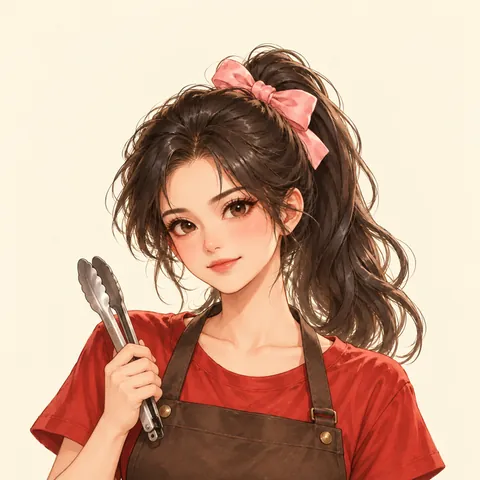
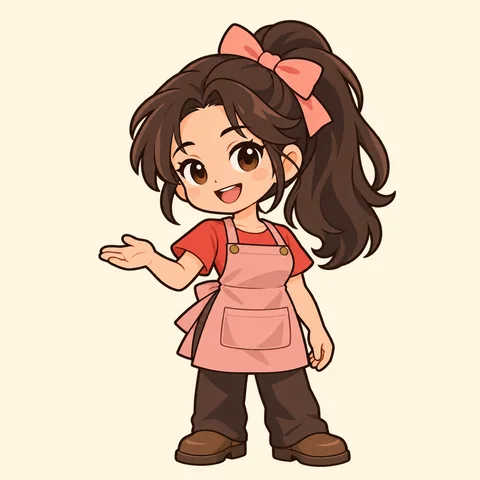
预览 12b2：家宅升级底图第二批 + 77 新形象 + 测试房间——阿宅 / 火箭老板 Lv2（公寓 8×5）、Lv3（豪宅 10×6）4 张底图（home-transfer-20261006 3fb4756，SHA256 核对一致），同 12b1 踢脚线底边切墙 / 地板，缩到 1600×400+1600×1000 / 2000×400+2000×1200，登记 HOME_ART（横竖偏差：阿宅公寓墙 −12% / 地 +5%，阿宅豪宅墙 +25% / 地 −8%，火箭公寓墙 +3% / 地 −1%，火箭豪宅墙 +13% / 地 −4%）；按实图标墙面禁区（阿宅公寓第 4–8 列、阿宅豪宅

diff --git a/preview/test_economy.js b/preview/test_economy.js
@@ -396,8 +396,11 @@ ok(E.CROSS['rocket@0'].effect === 'bigFreq' && E.CROSS['c77@3'].effect === 'offl
     ok(spots.join(' ') === '0,0 0,1', id + '：自动摆放只挂左边空墙（' + spots.join(' ') + '），满了不盖窗户');
   });
   // 没底图的房型（公寓 8 列）：只禁左上 emoji 窗户 + 右上房名牌
-  const s = mk(); s.homes.otaku.lv = 2; const bl = E.wallBlockedCells(s, 'otaku');   // 12b1：77 / 珍珠姐 Lv2 有底图了，用还没底图的阿宅
+  // 12b2：四家 Lv2/Lv3 都有底图了，这条兜底（以后新房型 / 没登记禁区）临时摘掉阿宅公寓的真禁区来测，测完放回
+  const otk2 = E.WALL_BLOCK.otaku_2; delete E.WALL_BLOCK.otaku_2;
+  const s = mk(); s.homes.otaku.lv = 2; const bl = E.wallBlockedCells(s, 'otaku');
   ok(bl.length === 3 && [5, 6, 7].every(x => bl.some(c => c[0] === x && c[1] === 0)) && E.canPlace(s, 'otaku', 'furn_painting', 3, 0, 0).ok && E.canPlace(s, 'otaku', 'furn_painting', 0, 0, 0).ok && !E.canPlace(s, 'otaku', 'furn_painting', 4, 0, 0).ok, '公寓（无底图）：只禁右上 3 格（emoji 窗户 + 房名牌），左边小屋的挂画位升级后仍合法');
+  E.WALL_BLOCK.otaku_2 = otk2;
   // 旧档：旧版自动摆放把画挂在窗户 (4,0) 上 → 读档挪到空墙，不丢不复制；墙满的退仓库
   const old = E.migrate({ v:3, coins:1, ceos:{ c77:{ unlocked:true, at:0 } }, furnInv:{}, homes:{ c77:{ lv:1, placed:[
     { uid:'u1', fid:'furn_painting', x:4, y:0, rot:0, surf:'wall' }, { uid:'u2', fid:'furn_painting', x:2, y:1, rot:0, surf:'wall' }, { uid:'u3', fid:'furn_painting', x:3, y:0, rot:0, surf:'wall' } ] } } }, T0).st;
@@ -723,7 +726,7 @@ ok(E.CROSS['rocket@0'].effect === 'bigFreq' && E.CROSS['c77@3'].effect === 'offl
   const wallSane = (s, id) => { const h = s.homes[id], w = h.placed.filter(p => E.itemSurf(p) === 'wall'); return w.every(p => E.canPlace(s, id, p.fid, p.x, p.y, p.rot, p.uid, 'wall').ok); };
   const snap = (s) => JSON.stringify(s.homes) + JSON.stringify(s.furnInv) + s.coins;
   // 12b1：77 / 珍珠姐 Lv2/Lv3 真底图接入后，下面这些合成用例照旧按「升级房还没底图」的起点跑（restore 回到没底图），结束再换回真表
-  const ART12B = ['c77_2', 'c77_3', 'pearl_2', 'pearl_3'], real = Object.assign({}, E.WALL_BLOCK);
+  const ART12B = ['c77_2', 'c77_3', 'pearl_2', 'pearl_3', 'otaku_2', 'otaku_3', 'rocket_2', 'rocket_3'], real = Object.assign({}, E.WALL_BLOCK);
   const saved = Object.assign({}, real); for (const k of ART12B) delete saved[k];
   const restore = () => { for (const k of Object.keys(E.WALL_BLOCK)) if (!(k in saved)) delete E.WALL_BLOCK[k]; Object.assign(E.WALL_BLOCK, saved); };
   const restoreReal = () => { restore(); Object.assign(E.WALL_BLOCK, real); };
@@ -836,6 +839,51 @@ ok(E.CROSS['rocket@0'].effect === 'bigFreq' && E.CROSS['c77@3'].effect === 'offl
     const raw = { v:E.CFG.SAVE_VERSION, coins:1, ceos:{ c77:{ unlocked:true, lv:1, at:0 } }, furnInv:{}, homes:{ c77:{ lv:2, next:9, placed:[{ uid:'win', fid:'furn_painting', x:5, y:0, rot:0, surf:'wall' }, { uid:'ok', fid:'furn_painting', x:0, y:0, rot:0, surf:'wall' }] } } };
     const m = E.migrate(raw, T0), st = m.st, w = st.homes.c77.placed.find(p => p.uid === 'win'), o = st.homes.c77.placed.find(p => p.uid === 'ok');
     ok(o && o.x === 0 && o.y === 0 && st.homes.c77.placed.length + E.invCount(st) === 2 && st.homes.c77.placed.every(p => E.canPlace(st, 'c77', p.fid, p.x, p.y, p.rot, p.uid, p.surf).ok) && (!w || w.x < 4), '12b1 旧档 77 公寓画挂在新拱窗上：读档挪到空墙 / 退仓，合法画原位，件数守恒 ' + JSON.stringify(st.homes.c77.placed.map(p => p.uid + '@' + p.x + ',' + p.y)));
+  }
+  // 12b2：阿宅 / 火箭老板 Lv2/Lv3 真底图禁区——按实图逐列核对；小屋左两列挂画升到公寓 / 豪宅原位；自动挂满不压墙饰；旧档挂在新禁区上的画读档挪开、件数守恒
+  {
+    const T0 = 1e12, mk2 = () => E.migrate({ v:3, coins:1e12, ceos:{ c77:{ unlocked:true, at:0 }, otaku:{ unlocked:true, at:2 }, rocket:{ unlocked:true, at:3 } } }, T0).st;
+    // 列从 1 数：阿宅公寓第 4–8 列、阿宅豪宅第 3–10 列、火箭公寓第 4–8 列、火箭豪宅第 4–10 列，上下两排都禁
+    const WANT = { otaku_2:[4, 8], otaku_3:[3, 10], rocket_2:[4, 8], rocket_3:[4, 10] };
+    for (const k in WANT) {
+      const [a, b] = WANT[k], id = k.split('_')[0], lv = +k.slice(-1), cols = E.homeTier(lv).cols, t = mk2(); t.homes[id].lv = lv;
+      const bl = E.wallBlockedCells(t, id), bs = new Set(bl.map(c => c.join(','))), want = [];
+      for (let y = 0; y < 2; y++) for (let x = a - 1; x < b; x++) want.push(x + ',' + y);
+      ok(bl.length === want.length && want.every(c => bs.has(c)), '12b2 ' + k + '：墙面禁区 = 第 ' + a + '–' + b + ' 列两排（' + bl.length + ' 格）');
+      const free = []; for (let y = 0; y < 2; y++) for (let x = 0; x < cols; x++) if (!bs.has(x + ',' + y)) free.push(x);
+      ok(free.every(x => x < a - 1) && E.canPlace(t, id, 'furn_painting', 0, 0, 0).ok && E.canPlace(t, id, 'furn_painting', 0, 1, 0).ok && !E.canPlace(t, id, 'furn_painting', a - 2, 0, 0).ok, '12b2 ' + k + '：左边空墙能挂、跨进第 ' + a + ' 列就拒（提示「' + E.canPlace(t, id, 'furn_painting', a - 2, 0, 0).why + '」）');
+      let n = 0; for (let i = 0; i < 20; i++) { const sp = E.findFree(t, id, 'furn_painting', 0, 'wall'); if (!sp) break; E.buyFurniture(t, 'furn_painting'); E.placeItem(t, id, 'furn_painting', sp.x, sp.y, 0, 'wall'); n++; }
+      const cells = t.homes[id].placed.flatMap(p => { const z = E.furnSize(p.fid, p.rot), o = []; for (let dx = 0; dx < z.w; dx++) for (let dy = 0; dy < z.h; dy++) o.push((p.x + dx) + ',' + (p.y + dy)); return o; });
+      ok(n === 2 && cells.every(c => !bs.has(c)), '12b2 ' + k + '：自动挂满 ' + n + ' 幅都在左边空墙，不压底图墙饰');
+    }
+    for (const id of ['otaku', 'rocket']) {
+      const s = mk2(); for (const y of [0, 1]) { E.buyFurniture(s, 'furn_painting'); E.placeItem(s, id, 'furn_painting', 0, y, 0, 'wall'); }
+      const pos = JSON.stringify(s.homes[id].placed.map(p => [p.uid, p.x, p.y])), r2 = E.upgradeHome(s, id), r3 = E.upgradeHome(s, id);
+      ok(r2.ok && r3.ok && r2.wallMoved + r2.wallStored + r3.wallMoved + r3.wallStored === 0 && JSON.stringify(s.homes[id].placed.map(p => [p.uid, p.x, p.y])) === pos, '12b2 ' + id + '：小屋左墙两幅画升公寓 / 豪宅都原位');
+      // 旧档：公寓里画挂在第 5 列（新舷窗 / 柜门）上，另一幅在左上 → 读档挪到空墙或退仓，件数守恒；升豪宅后照样都合法
+      const raw = { v:E.CFG.SAVE_VERSION, coins:1e12, ceos:{ c77:{ unlocked:true, lv:1, at:0 }, [id]:{ unlocked:true, lv:1, at:-1 } }, furnInv:{}, homes:{ [id]:{ lv:2, next:9, placed:[{ uid:'bad', fid:'furn_painting', x:4, y:1, rot:0, surf:'wall' }, { uid:'ok', fid:'furn_painting', x:0, y:0, rot:0, surf:'wall' }] } } };
+      const m = E.migrate(raw, T0), st = m.st, h = st.homes[id], bad = h.placed.find(p => p.uid === 'bad'), o = h.placed.find(p => p.uid === 'ok');
+      ok(o && o.x === 0 && o.y === 0 && h.placed.length + E.invCount(st) === 2 && h.placed.every(p => E.canPlace(st, id, p.fid, p.x, p.y, p.rot, p.uid, p.surf).ok) && (!bad || bad.x + 2 <= 3) && m.wall.moved + m.wall.stored === 1, '12b2 旧档 ' + id + ' 公寓画挂在新禁区上：读档挪开（' + (bad ? bad.x + ',' + bad.y : '退仓') + '），合法画原位，件数守恒');
+      const u = E.upgradeHome(st, id); ok(u.ok && h.placed.length + E.invCount(st) === 2 && h.placed.every(p => E.canPlace(st, id, p.fid, p.x, p.y, p.rot, p.uid, p.surf).ok), '12b2 ' + id + '：这份旧档再升豪宅，挂画仍都合法、件数守恒');
+    }
+  }
+  // 12b2：测试房间假数据（?test=homes 用）——四家都开、房子统一到公寓 / 豪宅、家具和挂画都合法摆好、仓库有货；纯函数，不碰传进来的东西
+  {
+    const ids = ['c77', 'pearl', 'otaku', 'rocket'], appSrc0 = require('fs').readFileSync(require('path').join(__dirname, 'app.js'), 'utf8');
+    const artKeys = [...(appSrc0.match(/const HOME_ART = \{([^}]*)\}/) || ['', ''])[1].matchAll(/(\w+_\d)\s*:/g)].map(x => x[1]);
+    for (const lv of [2, 3]) {
+      const a = E.testHomesState(1e12, lv), b = E.testHomesState(1e12, lv);
+      ok(JSON.stringify(a) === JSON.stringify(b) && a !== b && a.homes !== b.homes, '12b2 测试房间 Lv' + lv + '：每次新造一份、内容一样（不共用对象）');
+      ok(ids.every(id => a.ceos[id].unlocked && a.homes[id].lv === lv && artKeys.includes(id + '_' + lv) && E.WALL_BLOCK[id + '_' + lv]), '12b2 测试房间 Lv' + lv + '：四位 CEO 都在、四家都是' + E.homeTier(lv).name + '、都有真底图 + 真禁区');
+      ok(ids.every(id => { const h = a.homes[id]; return h.placed.length === 8 && h.placed.filter(p => p.surf === 'wall').length === 1 && h.placed.filter(p => p.surf === 'floor').length === 7 && h.placed.every(p => E.canPlace(a, id, p.fid, p.x, p.y, p.rot, p.uid, p.surf).ok); }), '12b2 测试房间 Lv' + lv + '：每家 7 件地板家具 + 1 幅挂画，全部合法、不压墙饰');
+      ok(a.furnInv.furn_painting === 4 && E.invCount(a) === 8 && a.coins >= 1e12 && a.taps > 0 && a.v === E.CFG.SAVE_VERSION, '12b2 测试房间 Lv' + lv + '：仓库 4 幅画 + 4 件小家具给测试员自己摆，金币够买够升级，不弹开场');
+      ok(ids.every(id => E.findFree(a, id, 'furn_painting', 0, 'wall') !== null || lv === 3), '12b2 测试房间 Lv' + lv + '：每家墙上还留空位能再挂一幅' + (lv === 3 ? '（豪宅阿宅只有左 2 列空墙，可能已满）' : ''));
+    }
+    const s = E.testHomesState(1e12, 2), before = ids.map(id => s.homes[id].placed.length).join(), cnt = () => ids.reduce((n, id) => n + s.homes[id].placed.length, 0) + E.invCount(s), n0 = cnt();
+    const ups = ids.map(id => E.upgradeHome(s, id));
+    ok(ups.every(u => u.ok) && ids.every(id => s.homes[id].lv === 3 && s.homes[id].placed.every(p => E.canPlace(s, id, p.fid, p.x, p.y, p.rot, p.uid, p.surf).ok)) && cnt() === n0, '12b2 测试房间：公寓里直接升豪宅，四家家具 / 挂画都合法、件数守恒（' + before + ' → ' + ids.map(id => s.homes[id].placed.length).join() + '）');
+    const real = E.migrate({ v:3, coins:77, ceos:{ c77:{ unlocked:true, at:0 } } }, 1e12).st, rj = JSON.stringify(real);
+    E.testHomesState(1e12, 3); ok(JSON.stringify(real) === rj && real.coins === 77 && !real.test, '12b2 测试房间：造假数据不改动别的存档对象');
   }
   // 6) 底图尺寸：每张 home_<ceo>_<lv>.webp 必须 = 列×200 × (2+行)×200（Lv1 1200×1200、Lv2 1600×1400、Lv3 2000×1600），墙地分界 y=400
   const fs = require('fs'), path = require('path');

diff --git a/preview/app.js b/preview/app.js
@@ -3,6 +3,10 @@
 'use strict';
 const E = window.Economy, CFG = E.CFG;
 const SAVE_KEY = 'tangzhe-preview-save', BAK_KEY = 'tangzhe-preview-save-bak', LOCK_KEY = 'tangzhe-preview-tab-lock';
+// 12b2 测试房间：只有网址带 ?test=homes 才进；整局放在内存里，不读、不写任何 localStorage（真存档 / 备份 / 多标签锁都不碰），刷新就重置
+// &lv=3 → 四家都是豪宅，默认四家都是公寓
+const TEST_Q = (() => { try { return new URLSearchParams(location.search); } catch (e) { return null; } })();
+const TEST_MODE = !!(TEST_Q && TEST_Q.get('test') === 'homes'), TEST_LV = TEST_Q && TEST_Q.get('lv') === '3' ? 3 : 2;
 const INK = '#141414', PAPER = '#f7f1e3', RED = '#e63946', YELLOW = '#ffd23f', TAU = Math.PI * 2;
 const $ = s => document.querySelector(s);
 const now = () => Date.now();
@@ -13,6 +17,7 @@ const rand = () => { if (crypto && crypto.getRandomValues) return crypto.getRand
 const TAB = rid();
 let frozen = false, state, migratedFrom = null, loadWallMig = { moved:0, stored:0 };
 function loadState() {
+  if (TEST_MODE) { loadWallMig = { moved:0, stored:0 }; migratedFrom = null; return E.testHomesState(now(), TEST_LV); }
   let raw = null;
   try { raw = JSON.parse(localStorage.getItem(SAVE_KEY) || 'null'); } catch (e) { raw = null; }
   if (raw && raw.v !== CFG.SAVE_VERSION) { try { localStorage.setItem(BAK_KEY + '-v' + (raw.v || 0), JSON.stringify(raw)); } catch (e) {} }
@@ -21,10 +26,11 @@ function loadState() {
   migratedFrom = raw ? (raw.v !== CFG.SAVE_VERSION ? (raw.v || 0) : null) : null;
   return m.st;
 }
-function storedRev() { try { const r = JSON.parse(localStorage.getItem(SAVE_KEY) || 'null'); return r ? (r.rev || 0) : -1; } catch (e) { return -1; } }
+function storedRev() { if (TEST_MODE) return -1; try { const r = JSON.parse(localStorage.getItem(SAVE_KEY) || 'null'); return r ? (r.rev || 0) : -1; } catch (e) { return -1; } }
 // 保存 = 先确认没有别的页面写过（rev 比我新就冻结本页），再整份原子写入
 function persist() {
   if (frozen) return false;
+  if (TEST_MODE) { state.rev++; return true; }   // 测试房间：只在内存里，永远不写真存档
   const sr = storedRev();
   if (sr > state.rev) { freeze(); return false; }
   const t = now();
@@ -42,14 +48,14 @@ function atomic(fn) {
   if (!persist()) { state = JSON.parse(snap); return { ok:false, why:'saveFailed' }; }
   return res;
 }
-function claimLock() { try { localStorage.setItem(LOCK_KEY, JSON.stringify({ tab:TAB, t:now() })); } catch (e) {} }
-function lockMine() { try { const v = JSON.parse(localStorage.getItem(LOCK_KEY) || 'null'); return !v || v.tab === TAB; } catch (e) { return true; } }
+function claimLock() { if (TEST_MODE) return; try { localStorage.setItem(LOCK_KEY, JSON.stringify({ tab:TAB, t:now() })); } catch (e) {} }
+function lockMine() { if (TEST_MODE) return true; try { const v = JSON.parse(localStorage.getItem(LOCK_KEY) || 'null'); return !v || v.tab === TAB; } catch (e) { return true; } }
 function freeze() {
   if (frozen) return; frozen = true;
   $('#lockOverlay').classList.remove('hidden'); audioPause();
 }
 window.addEventListener('storage', e => {
-  if (frozen) return;
+  if (frozen || TEST_MODE) return;
   if (e.key === LOCK_KEY && e.newValue) { try { if (JSON.parse(e.newValue).tab !== TAB) freeze(); } catch (x) {} }
   if (e.key === SAVE_KEY && e.newValue) { try { if ((JSON.parse(e.newValue).rev || 0) > state.rev) freeze(); } catch (x) {} }
 });
@@ -404,8 +410,8 @@ function avatarURL(id, key) {
   c.translate(56, 186); c.scale(1.15, 1.15); drawHead(c, lookOf(id), { happy:false });
   return (avaCache[k] = o.toDataURL());
 }
-// 熊大画的 CEO 头像（图没加载出来就退回画布小人头像）
-const ART_V = '11', PORTRAIT = { c77:1, pearl:1, otaku:1, rocket:1 };
+// 熊大画的 CEO 头像（图没加载出来就退回画布小人头像）；12b2 起 77 的 ceo_c77 / face_c77 是漫画新版，换了图所以 ART_V 跟着换
+const ART_V = '12b2', PORTRAIT = { c77:1, pearl:1, otaku:1, rocket:1 };
 const faceURL = id => PORTRAIT[id] ? `art/face_${id}.webp?v=${ART_V}` : avatarURL(id);
 const bustURL = id => PORTRAIT[id] ? `art/ceo_${id}.webp?v=${ART_V}` : avatarURL(id);
 const faceImg = id => `<img src="${faceURL(id)}"${PORTRAIT[id] ? ` class="art" data-fb="${id}"` : ''} alt="">`;
@@ -1537,7 +1543,7 @@ function showIntro() {
 // 美术：画师的图转成 webp 后放 art/，在下面两张表里登记一张就用一张；没登记 / 加载失败 → 用色块 + emoji 占位
 // 房间底图：art/home_<ceo>_<lv>.webp（ceo=c77/pearl/otaku/rocket，lv=1/2/3），例 { c77_1:1 }
 // 底图规格：宽 = 列数×200px，高 = (2 + 行数)×200px；上面 2 格高是后墙，下面是地板格，平行投影无消失点。Lv1 6×4 → 1200×1200，墙地分界 y=400
-const HOME_ART = { c77_1: 1, pearl_1: 1, otaku_1: 1, rocket_1: 1, c77_2: 1, c77_3: 1, pearl_2: 1, pearl_3: 1 };  // 熊大四位 CEO 的 Lv1（原图墙 / 地板在踢脚线底边处分开，分别缩放到 1200×400 + 1200×800）；12b1：77 / 珍珠姐 Lv2 1600×400+1600×1000、Lv3 2000×400+2000×1200，同样在踢脚线底边切开
+const HOME_ART = { c77_1: 1, pearl_1: 1, otaku_1: 1, rocket_1: 1, c77_2: 1, c77_3: 1, pearl_2: 1, pearl_3: 1, otaku_2: 1, otaku_3: 1, rocket_2: 1, rocket_3: 1 };  // 熊大四位 CEO 的 Lv1（原图墙 / 地板在踢脚线底边处分开，分别缩放到 1200×400 + 1200×800）；12b1：77 / 珍珠姐 Lv2 1600×400+1600×1000、Lv3 2000×400+2000×1200，同样在踢脚线底边切开；12b2：阿宅 / 火箭老板 Lv2/Lv3 同法
 const FURN_ART = { bed:1, bookshelf:1, wardrobe:1, table:1, fridge:1, sofa:1, rug:1, plant:1, lamp:1, tv:1, painting:1, catbed:1, rocket_rocket_model:1, rocket_meteor_stand:1, rocket_biosphere_dome:1, s77_cloud_canopy:1, rocket_capsule_bunk:1 };  // +火箭模型/陨石展座/生态圆顶/云朵纱帐床；宽=占地×200（1格240）
 const furnName = fid => fid.replace(/^furn_/, '');
 // 高家具：占地只有底下那排格子，图按「高 / 宽」比例往上伸（盖住后墙），底脚对齐占地底边；值 = 图高 / 图宽（400×600 → 1.5）
@@ -1971,7 +1977,9 @@ function boot() {
   const wallMig = { moved:loadWallMig.moved + wallMig0.moved, stored:loadWallMig.stored + wallMig0.stored };
   const p = E.settleOffline(state, now(), rid);
   persist();
-  scheduleBig(); scheduleSpecial(); renderTabs(); setTab('shop');
+  scheduleBig(); scheduleSpecial(); renderTabs(); setTab(TEST_MODE ? 'home' : 'shop');
+  if (TEST_MODE) { const b = document.createElement('div'); b.id = 'testBadge'; b.textContent = '测试房间 · ' + (TEST_LV === 3 ? '豪宅' : '公寓') + ' · 不存档，刷新重置'; document.body.appendChild(b);
+    const place = () => { const n = $('#bottomNav'); if (n) b.style.bottom = Math.max(8, innerHeight - n.getBoundingClientRect().top + 6) + 'px'; }; place(); addEventListener('resize', place); }
   if (migratedFrom != null) toast('存档已升级到 v' + CFG.SAVE_VERSION + '（新盲盒 + CEO 穿搭，收藏都保留）', 2600);
   if (fpMig && !fpMig.skipped && (fpMig.shifted || fpMig.stored)) toast(fpMig.stored ? `家具占地收紧：${fpMig.shifted} 件按脚底重锚，${fpMig.stored} 件腾不出空位已退回仓库` : `家具占地收紧：${fpMig.shifted} 件已按脚底重锚`, 3200);
   if (wallMig && (wallMig.moved || wallMig.stored)) toast(wallMig.stored ? `墙面整理：${wallMig.moved} 幅挂画挪到空墙，${wallMig.stored} 幅墙面没空已退回仓库` : `墙面整理：${wallMig.moved} 幅挂画已挪到空墙`, 3200);
@@ -1985,7 +1993,7 @@ function boot() {
 boot();
 
 // 测试/调试钩子（不影响玩家）
-window.__tzz = { E, FURN_SIDE, furnInner, get combo() { return combo; }, get critFx() { return critFx; }, critLine, refreshCrit, showComic, showCrossBig, queueModal, CROSS_ART, crossURL, showCeoJoin, get state() { return state; }, set state(v) { state = v; }, persist, onReturn, tapShop, act, setTab, switchShop, renderTab,
+window.__tzz = { TEST_MODE, TEST_LV, SAVE_KEY, E, FURN_SIDE, furnInner, get combo() { return combo; }, get critFx() { return critFx; }, critLine, refreshCrit, showComic, showCrossBig, queueModal, CROSS_ART, crossURL, showCeoJoin, get state() { return state; }, set state(v) { state = v; }, persist, onReturn, tapShop, act, setTab, switchShop, renderTab,
   forceBig() { nextBigAt = 0; if (order) order = null; }, clearVisitors() { order = null; special = null; nextBigAt = clock + 9999; nextSpecialAt = clock + 9999; }, forceSpecial() { nextSpecialAt = 0; special = null; },
   forceSupers() { for (const k in superNext) superNext[k] = 0; updateSupers(); renderTab(); },
   get big() { return order; }, get order() { return order; }, get special() { return special; }, get guests() { return guests; },

diff --git a/preview/economy.js b/preview/economy.js
@@ -489,6 +489,11 @@
     c77_3:    ART_WALL([5, 6, 7, 8, 9]),        // 双拱窗 + 藤蔓花（第 6–10 列，左拱柱压到第 6 列）
     pearl_2:  ART_WALL([2, 3, 4, 5, 6, 7]),     // 绿色壁柱（第 3–4 列）+ 装饰墙板 + 半圆拱窗 / 蝴蝶结花饰（第 5–8 列）
     pearl_3:  ART_WALL([4, 5, 6, 7, 8, 9]).concat([[3, 0]]),  // 玻璃花房（第 5–10 列）+ 上排第 4 列垂下的花藤
+    // 12b2：阿宅 / 火箭老板 Lv2、Lv3 底图，同样按实图标（第 N 列 = 从 1 数）
+    otaku_2:  ART_WALL([3, 4, 5, 6, 7]),        // 竖条格栅壁柱（第 4 列右半 + 右墙边）+ 金边柜门（第 5–6 列）+ 手办 / 书 / 绿植灯光书架（第 6–8 列）
+    otaku_3:  ART_WALL([2, 3, 4, 5, 6, 7, 8, 9]),  // 左边奶白软包板只占第 1–2 列；第 3 列起是蓝色灯带 + 大理石波浪板 + 竖条格栅 + 战机 / 手办壁龛（第 7–10 列）
+    rocket_2: ART_WALL([3, 4, 5, 6, 7]),        // 铆钉立柱 + 铜壁灯（第 4 列）+ 大舷窗（第 5–8 列）；第 1–3 列是素面铆钉钢板
+    rocket_3: ART_WALL([3, 4, 5, 6, 7, 8, 9]),  // 穹顶弧梁（第 4–5 列）+ 星空大窗 + 灯带（第 6–10 列）；第 1 列左边一段弧梁压边，挂画盖住无妨，保住小屋左两列
   };
   // 没底图（升级后的公寓 / 豪宅）：emoji 窗户 + 房名牌都靠右上，占第一排最右 3 格；左边永远留空墙，
   // 所以小屋左 2 列挂好的画升级后照样合法（格子只会变大）
@@ -1097,6 +1102,34 @@
     return { st, from, wall:hb.wall };   // wall：读档时墙面整理挪了几幅 / 退了几幅（给页面提示用）
   }
 
+  /* ================= 12b2：测试房间（只给 ?test=homes 用，不读不写真存档） ================= */
+  // 四家都开张、四位 CEO 都在，房子统一到 lv（2 公寓 / 3 豪宅），每家摆好地板家具 + 1 幅挂画，仓库再放几件给测试员自己摆；金币够升级 / 买
+  const TEST_HOME_KIT = [['furn_rug', 2, 2], ['furn_table', 3, 2], ['furn_bed', 0, 0], ['furn_sofa', 2, -1], ['furn_bookshelf', -3, -1], ['furn_lamp', -1, -2], ['furn_plant', -1, -1]];   // 高家具都放前排，不挡后墙底图
+  function testHomesState(now, lv) {
+    lv = lv === 3 ? 3 : 2;
+    const st = newState(now);
+    st.coins = 1e12; st.totalEarned = 1e12; st.taps = 1;
+    st.shops = SHOPS.map(() => ({ open:true, lv:CFG.ROCKET_UNLOCK_LV, emp:1 }));
+    checkUnlocks(st);
+    const report = {};
+    for (const c of CEOS) {
+      const h = homeOf(st, c.id); h.lv = lv; const T = homeTier(lv), got = [];
+      for (const [fid, x0, y0] of TEST_HOME_KIT) {
+        buyFurniture(st, fid);
+        const x = x0 < 0 ? T.cols + x0 : x0, y = y0 < 0 ? T.rows + y0 : y0;
+        let r = placeItem(st, c.id, fid, x, y, 0);
+        if (!r.ok) { const sp = findFree(st, c.id, fid, 0); r = sp ? placeItem(st, c.id, fid, sp.x, sp.y, 0, sp.surf) : r; }
+        got.push(fid + (r.ok ? '' : '✗'));
+      }
+      buyFurniture(st, 'furn_painting'); const sp = findFree(st, c.id, 'furn_painting', 0, 'wall');
+      if (sp) placeItem(st, c.id, 'furn_painting', sp.x, sp.y, 0, 'wall');
+      report[c.id] = got;
+    }
+    for (const [fid, n] of [['furn_painting', 4], ['furn_plant', 2], ['furn_lamp', 1], ['furn_catbed', 1]]) for (let i = 0; i < n; i++) buyFurniture(st, fid);
+    st.coins = 1e12; st.test = 'homes';
+    return st;
+  }
+
   /* ================= 成就 / 下一步提示 ================= */
   function nextGoal(st) {
     const S = st.shops, c = st.coins;
@@ -1124,7 +1157,7 @@
     checkUnlocks, assignCeo, assignCeoWithPayout, creditOnline, previewAssign, signOf, cloneState,
     canOpen, openShop, hireEmp, upgradeEmp, upgradeCeo, upgradeShop,
     dayKey, nextResetTs, clockRolledBack, computeOffline, settleOffline, canDouble, claimOffline,
-    gachaUnlocked, gachaRemaining, gachaOdds, gachaPrice, gachaDraw, cardsComplete, newState, migrate, nextGoal,
+    gachaUnlocked, gachaRemaining, gachaOdds, gachaPrice, gachaDraw, cardsComplete, newState, migrate, nextGoal, testHomesState,
     HOME_TIERS, HOME_MAX, WALL_ROWS, WALL_BLOCK, wallBlockedCells, MALL_CATS, FURNITURE, FURN_BY_ID, newHome, homeTier, homeOf, furnInvOf, homeOpen, furnLiveAct, furnSize, itemSurf, canPlace, findFree, homeUpgradeCost,
     buyFurniture, upgradeHome, placeItem, moveItem, rotateItem, storeItem, undoHome, migrateWallPaintings, reconcileWall, WALL_BLOCK, migrateFootprint11w, migrateFootprint11z, migrateFootprints, FP_OLD_11Z, homeLuxury, invCount, furnStats, normHomes, normFurnInv, normHomeBundle };
 });

diff --git a/preview/index.html b/preview/index.html
@@ -12,7 +12,7 @@
 <title>躺着也能赚（预览·未上线）</title>
 <link rel="icon" href="icon.svg" type="image/svg+xml">
 <link rel="apple-touch-icon" href="apple-touch-icon.png">
-<link rel="stylesheet" href="style.css?v=12b1">
+<link rel="stylesheet" href="style.css?v=12b2">
 </head>
 <body>
 <!-- 12c 漫画 UI：统一线稿图标（同一支墨线笔 stroke 2、圆头；--ica 主色 / --icf 纸色 / --icy 黄，激活态由 CSS 换色） -->
@@ -91,9 +91,9 @@
 <div id="toast" class="hidden"></div>
 <script>
 /* 版本自检：App 内置浏览器 / 主屏图标可能缓存旧的 index.html。拿最新版本号，比本页新就带版本号重开一次（只重开一次，不会死循环） */
-(function(){var B='12b1';try{fetch('version.json?t='+Date.now(),{cache:'no-store'}).then(function(r){return r.ok?r.json():null}).then(function(j){if(!j||!j.v||String(j.v)===B)return;var k='tzz-reload-'+j.v;if(sessionStorage.getItem(k))return;sessionStorage.setItem(k,'1');location.replace(location.pathname+'?v='+j.v+location.hash);}).catch(function(){});}catch(e){}})();
+(function(){var B='12b2';try{fetch('version.json?t='+Date.now(),{cache:'no-store'}).then(function(r){return r.ok?r.json():null}).then(function(j){if(!j||!j.v||String(j.v)===B)return;var k='tzz-reload-'+j.v;if(sessionStorage.getItem(k))return;sessionStorage.setItem(k,'1');var q=location.search.replace(/^\?/,'').split('&').filter(function(x){return x&&x.split('=')[0]!=='v'});q.unshift('v='+j.v);location.replace(location.pathname+'?'+q.join('&')+location.hash);}).catch(function(){});}catch(e){}})();
 </script>
-<script src="economy.js?v=12b1"></script>
-<script src="app.js?v=12b1"></script>
+<script src="economy.js?v=12b2"></script>
+<script src="app.js?v=12b2"></script>
 </body>
 </html>

diff --git a/preview/style.css b/preview/style.css
@@ -718,3 +718,5 @@ button{font-family:inherit;color:var(--ink);touch-action:manipulation;cursor:poi
 
 /* 12c2：竖放侧面图（art/furn_<名>_side.webp，登记在 app.js FURN_SIDE）；rot 3 水平镜像。没侧面图的保持正面图等比兜底 */
 .furn .fi img.mir{transform:scaleX(-1)}
+/* 12b2 测试房间（?test=homes）角标：提醒这是不存档的假数据 */
+#testBadge{position:fixed;left:50%;bottom:calc(var(--sab,0px) + 80px);transform:translateX(-50%) rotate(-1deg);z-index:59;opacity:.92;pointer-events:none;background:#ffd23f;color:#141414;border:2px solid #141414;border-radius:6px;box-shadow:2px 2px 0 #141414;font-size:11px;font-weight:900;padding:2px 8px;white-space:nowrap}

diff --git a/preview/test_playtest.py b/preview/test_playtest.py
@@ -1188,6 +1188,78 @@ with sync_playwright() as p:
     sc.close()
     errs[:] = [e for e in errs if not (e.startswith('12c2-side') and ('_side.webp' in e or '404' in e))]  # 4b 故意请求不存在的侧面图
 
+    print('== 12b2. 阿宅 / 火箭老板 Lv2/Lv3 底图 + 真禁区；77 漫画新全身 / 头像；测试房间 ?test=homes 不碰真存档 ==')
+    TURL = URL + ('&' if '?' in URL else '?') + 'test=homes'
+    WB12B2 = {'otaku_2': (10, 1600, 1400), 'otaku_3': (16, 2000, 1600), 'rocket_2': (10, 1600, 1400), 'rocket_3': (14, 2000, 1600)}   # 禁区格数 = 列数 × 2 排
+    zc = b.new_context(**p.devices['iPhone 15']); zp = zc.new_page(); hook(zp, '12b2')
+    zp.goto(URL); zp.evaluate("localStorage.clear()"); zp.reload(); zp.wait_for_timeout(800); close_modals(zp)
+    hl3 = S(zp, "Promise.all(" + json.dumps([[k, v[1], v[2]] for k, v in WB12B2.items()]) + ".map(([k,w,h])=>new Promise(r=>{ if(!__tzz.HOME_ART[k]) return r(k+' 没登记'); const im=new Image(); im.onload=()=>r(im.naturalWidth===w&&im.naturalHeight===h?null:k+' 尺寸 '+im.naturalWidth+'×'+im.naturalHeight); im.onerror=()=>r(k+' 加载失败'); im.src='art/home_'+k+'.webp';}))).then(a=>a.filter(Boolean))")
+    check(hl3 == [], f'12b2 阿宅 / 火箭老板 Lv2/Lv3 底图都登记、加载成功、尺寸对（公寓 1600×1400、豪宅 2000×1600）{hl3}')
+    a77 = S(zp, "Promise.all([['ceo_c77',480],['face_c77',192]].map(([n,w])=>new Promise(r=>{const im=new Image(); im.onload=()=>r(im.naturalWidth===w&&im.naturalHeight===w?null:n+' '+im.naturalWidth+'×'+im.naturalHeight); im.onerror=()=>r(n+' 加载失败'); im.src='art/'+n+'.webp?v=12b2';}))).then(a=>a.filter(Boolean))")
+    check(a77 == [], f'12b2 77 漫画新全身 ceo_c77 480×480、头像 face_c77 192×192 都能加载 {a77}')
+    zp.locator('#bottomNav [data-tab="ceo"]').click(); zp.wait_for_timeout(500)
+    srcs = S(zp, "[...document.querySelectorAll('img')].map(i=>i.getAttribute('src')||'').filter(s=>/_c77\\.webp/.test(s))")
+    check(srcs and all(s.endswith('?v=12b2') for s in srcs) and any('face_c77' in s for s in srcs), f'12b2 CEO 页 77 的图都带新缓存号 ?v=12b2（换了图，不吃旧缓存）{srcs[:3]}')
+    S(zp, "(()=>{const s=__tzz.state; s.ceos.otaku.unlocked=true; s.ceos.rocket.unlocked=true; s.coins=1e9; __tzz.persist();})()")
+    zp.locator('#bottomNav [data-tab="home"]').click(); zp.wait_for_timeout(500); close_modals(zp)
+    for key, (nb, W, H) in WB12B2.items():
+        cid, lv = key.split('_')[0], int(key[-1])
+        S(zp, f"(()=>{{const s=__tzz.state; s.homes.{cid}.lv={lv}; s.homes.{cid}.placed=[]; __tzz.persist(); __tzz.homeAct('homeWho','{cid}'); __tzz.renderTab();}})()")
+        zp.wait_for_function("(()=>{const i=document.querySelector('#room .room-art'); return i&&i.complete&&i.naturalWidth>0})()", timeout=15000)
+        g = S(zp, "(()=>{const r=document.getElementById('room'),im=r.querySelector('.room-art'); return {has:r.classList.contains('has-art'), src:im.getAttribute('src'), nw:im.naturalWidth, nh:im.naturalHeight, blocks:document.querySelectorAll('#wallGrid .wall-block').length, n:__tzz.E.wallBlockedCells(__tzz.state,__tzz.homeWho).length}})()")
+        check(g['has'] and g['src'].startswith(f'art/home_{key}.webp') and g['nw'] == W and g['nh'] == H and g['blocks'] == g['n'] == nb, f"12b2 {key}：房间用真底图 {g['nw']}×{g['nh']}，墙面禁区 {g['blocks']} 格（应 {nb}）")
+    zc.close()
+    # —— 测试房间：先造一份真存档（另一个标签开着真游戏），再开 ?test=homes 狂操作，真存档 / 备份 / 多标签锁一个字节都不能变 ——
+    tc = b.new_context(**p.devices['iPhone 15']); rp = tc.new_page(); hook(rp, '12b2-real')
+    rp.goto(URL); rp.evaluate("localStorage.clear()"); rp.reload(); rp.wait_for_timeout(800); close_modals(rp)
+    S(rp, "(()=>{const s=__tzz.state,E=__tzz.E; s.coins=123456; s.taps=77; E.buyFurniture(s,'furn_painting'); E.placeItem(s,'c77','furn_painting',0,1,0,'wall'); __tzz.persist();})()")
+    LS = "(()=>{const o={}; for(let i=0;i<localStorage.length;i++){const k=localStorage.key(i); o[k]=localStorage.getItem(k);} return o})()"
+    rp.close()   # 真游戏标签自己每 5 秒 / 切后台关页时也会存档：先关掉，再从同源的静态页（version.json，不跑游戏）拍 localStorage 快照，下面逐字节比
+    vj = tc.new_page(); vj.goto(URL.rsplit('/', 1)[0] + '/version.json'); snap0 = S(vj, LS); real0 = json.loads(snap0[KEY])
+    tp = tc.new_page(); hook(tp, '12b2-test'); tp.goto(TURL); tp.wait_for_timeout(900)
+    t = S(tp, "(()=>{const s=__tzz.state,b=document.getElementById('testBadge'); return {tm:__tzz.TEST_MODE, tab:document.getElementById('app').dataset.tab, badge:b&&getComputedStyle(b).display!=='none'&&b.getBoundingClientRect().height>0?b.textContent:'', lv:['c77','pearl','otaku','rocket'].map(id=>s.homes[id].lv), open:['c77','pearl','otaku','rocket'].every(id=>s.ceos[id].unlocked), n:['c77','pearl','otaku','rocket'].map(id=>s.homes[id].placed.length), wall:['c77','pearl','otaku','rocket'].map(id=>s.homes[id].placed.filter(q=>q.surf==='wall').length), inv:s.furnInv.furn_painting, coins:s.coins, modal:!document.querySelector('#modal').classList.contains('hidden')}})()")
+    check(t['tm'] and t['tab'] == 'home' and '不存档' in t['badge'] and t['lv'] == [2, 2, 2, 2] and t['open'] and t['n'] == [8, 8, 8, 8] and t['wall'] == [1, 1, 1, 1] and t['inv'] == 4 and t['coins'] >= 1e12 and not t['modal'],
+          f"12b2 ?test=homes：直接进家宅、角标「{t['badge']}」、四家公寓都开、每家 7 件家具 + 1 幅画、仓库 4 幅画、不弹开场 {t['lv']} {t['n']}")
+    S(tp, "__tzz.homeAct('homeWho','otaku'); __tzz.renderTab()"); tp.wait_for_function("(()=>{const i=document.querySelector('#room .room-art'); return i&&i.complete&&i.naturalWidth>0&&[...document.querySelectorAll('#room .furn img')].every(x=>x.complete)})()", timeout=15000)
+    rr = S(tp, "(()=>{const r=document.getElementById('room'); return {has:r.classList.contains('has-art'), src:r.querySelector('.room-art').getAttribute('src'), furn:r.querySelectorAll('.furn').length, blocks:r.querySelectorAll('.wall-block').length}})()")
+    check(rr['has'] and 'home_otaku_2.webp' in rr['src'] and rr['furn'] == 8 and rr['blocks'] == 10, f"12b2 测试房间阿宅公寓：真底图、8 件家具画出来、墙面禁区 {rr['blocks']} 格 {rr['src']}")
+    # 挂画拖到禁区被拒（如实提示），拖到空墙可以；买家具 / 摆 / 升级 / 自动保存都只在内存
+    nb = S(tp, "(()=>{const s=__tzz.state,E=__tzz.E,q=s.homes.otaku.placed.find(x=>x.surf==='wall'); const bad=E.moveItem(s,'otaku',q.uid,4,0), good=E.moveItem(s,'otaku',q.uid,1,1); E.buyFurniture(s,'furn_sofa'); const pl=E.placeItem(s,'otaku','furn_sofa',4,1,0); const up=E.upgradeHome(s,'rocket'); __tzz.persist(); __tzz.renderTab(); return {bad:bad.ok, why:bad.why, good:good.ok, pl:pl.ok, up:up.ok, rocket:s.homes.rocket.lv}})()")
+    check(not nb['bad'] and '窗户' in (nb['why'] or '') and nb['good'] and nb['pl'] and nb['up'] and nb['rocket'] == 3, f"12b2 测试房间：画拖到第 5 列被拒「{nb['why']}」、拖到空墙可以、买 / 摆沙发、火箭老板升豪宅都正常")
+    tp.locator('.mode-tabs [data-arg="decor"]').first.click() if tp.locator('.mode-tabs [data-arg="decor"]').count() else None
+    tp.wait_for_timeout(6500)   # 等过一轮 5 秒自动保存
+    snap1 = S(tp, LS)
+    check(snap1 == snap0 and not S(tp, '__tzz.frozen'), f'12b2 测试房间操作 + 自动保存后：localStorage 一字不差（{len(snap0)} 个键：{sorted(snap0)}）')
+    tp.reload(); tp.wait_for_timeout(900)
+    t2 = S(tp, "(()=>{const s=__tzz.state; return {tm:__tzz.TEST_MODE, rocket:s.homes.rocket.lv, n:s.homes.otaku.placed.length}})()")
+    check(t2['tm'] and t2['rocket'] == 2 and t2['n'] == 8 and S(tp, LS) == snap0, f'12b2 测试房间刷新 = 重置成初始假数据（火箭老板回公寓、阿宅回 8 件），真存档仍不变 {t2}')
+    l3 = tc.new_page(); hook(l3, '12b2-lv3'); l3.goto(TURL + '&lv=3'); l3.wait_for_timeout(900)
+    t3 = S(l3, "(()=>{const s=__tzz.state,ids=['c77','pearl','otaku','rocket']; return {tm:__tzz.TEST_MODE, lv:ids.map(id=>s.homes[id].lv), ok:ids.every(id=>s.homes[id].placed.every(q=>__tzz.E.canPlace(s,id,q.fid,q.x,q.y,q.rot,q.uid,q.surf).ok)), badge:document.getElementById('testBadge').textContent}})()")
+    check(t3['tm'] and t3['lv'] == [3, 3, 3, 3] and t3['ok'] and '豪宅' in t3['badge'], f"12b2 ?test=homes&lv=3：四家都是豪宅、摆放全合法、角标「{t3['badge']}」")
+    l3.close()
+    # 版本自检重开（缓存旧页 → 带新版本号重开）也要保住 test=homes，不会掉回真存档
+    vp = tc.new_page(); hook(vp, '12b2-ver'); vp.route('**/version.json*', lambda r: r.fulfill(status=200, content_type='application/json', body='{"v":"99z"}'))
+    vp.goto(TURL); vp.wait_for_timeout(1500)
+    check('v=99z' in vp.url and 'test=homes' in vp.url and S(vp, '__tzz.TEST_MODE') and S(vp, LS) == snap0, f'12b2 版本自检重开后网址仍带 test=homes（{vp.url.split("/")[-1]}），仍是测试房间、真存档不变')
+    vp.close()
+    # 不带参数 / 参数不对都进不了测试房间：读回的就是刚才那份真存档
+    for q in ['', '?test=home', '?test=HOMES', '?homes=1']:
+        np_ = tc.new_page(); hook(np_, '12b2-no'); np_.goto(URL + q); np_.wait_for_timeout(900)
+        r = S(np_, "(()=>({tm:__tzz.TEST_MODE, coins:Math.floor(__tzz.state.coins), taps:__tzz.state.taps, badge:!!document.getElementById('testBadge'), lv:__tzz.state.homes.otaku.lv, wall:__tzz.state.homes.c77.placed.filter(x=>x.surf==='wall').map(x=>x.x+','+x.y)}))()")
+        check(not r['tm'] and not r['badge'] and r['coins'] == int(real0['coins']) and r['taps'] == 77 and r['lv'] == 1 and r['wall'] == ['0,1'], f"12b2 网址「{q or '（无参数）'}」：不是测试房间，读的是真存档（金币 {r['coins']}、点击 77、77 墙上原来那幅画 {r['wall']}）")
+        np_.close()
+    # 真游戏标签开着的时候再开测试房间：真标签不被挤下线（多标签锁没被改），测试房间也不会因为真标签存档而冻结
+    rp = tc.new_page(); hook(rp, '12b2-real2'); rp.goto(URL); rp.wait_for_timeout(900); close_modals(rp)
+    lock0 = S(rp, "localStorage.getItem('tangzhe-preview-tab-lock')")
+    tp2 = tc.new_page(); hook(tp2, '12b2-test2'); tp2.goto(TURL); tp2.wait_for_timeout(900)
+    S(tp2, "(()=>{const s=__tzz.state,E=__tzz.E; E.buyFurniture(s,'furn_lamp'); E.upgradeHome(s,'c77'); __tzz.persist();})()"); S(rp, "__tzz.persist()"); tp2.wait_for_timeout(6000)
+    lock1 = S(rp, "localStorage.getItem('tangzhe-preview-tab-lock')"); rs = json.loads(S(rp, LS)[KEY])
+    check(lock1 == lock0 and not S(rp, '__tzz.frozen') and not S(tp2, '__tzz.frozen') and rs['homes']['c77']['lv'] == 1 and rs.get('test') is None, f'12b2 真游戏 + 测试房间同时开：真标签没被挤下线、多标签锁没被改，测试房间里升的房子没进真存档（77 仍小屋）')
+    tp2.close()
+    after = json.loads(S(rp, LS)[KEY])
+    check(after.get('test') is None and after['homes']['otaku']['lv'] == 1 and after['coins'] >= real0['coins'], '12b2 真存档里没有任何测试房间的数据（没有 test 标记、阿宅仍是小屋）')
+    tc.close()
+
     print('== 9. 各尺寸 iPhone 视口 ==')
     for name in ['iPhone SE', 'iPhone SE (3rd gen)', 'iPhone 13 Mini', 'iPhone 15', 'iPhone 15 Pro Max', 'iPhone 16 Pro Max']:
         c = b.new_context(**p.devices[name]); q = c.new_page(); hook(q, name)

diff --git a/preview/README.md b/preview/README.md
@@ -42,3 +42,7 @@ iPhone 竖屏 Safari 漫画风挂机小游戏。**试玩链接，不是正式上
 12c3：熊大 15:03 复核的小补充。开摊介绍弹窗的 × 朗读标签改成「关闭」（原来跟着按钮叫「开摊！」），新增回归：三机型按坐标实点 ×（中心及上下左右 15px 都命中 × 本身）只关窗、不解锁音频、不说开摊台词。面板灯换矮图时再同步改 ART_V。
 
 12b1：家宅升级底图第一批。杨总给的 77 / 珍珠姐 Lv2（公寓 8×5）、Lv3（豪宅 10×6）四张空房底图（小喇叭推到 `home-transfer-20261006`，84db7e6，SHA256 全部核对一致），和 Lv1 一样在踢脚线底边切开墙 / 地板，分别缩放成公寓 1600×400 + 1600×1000、豪宅 2000×400 + 2000×1200，存 `art/home_<ceo>_<lv>.webp` 并登记 HOME_ART。墙面禁区按实图标：77 公寓第 5–8 列（拱窗 + 壁龛），77 豪宅第 6–10 列（双拱窗），珍珠姐公寓第 3–8 列（壁柱 + 拱窗 + 蝴蝶结），珍珠姐豪宅第 5–10 列两排 + 上排第 4 列（玻璃花房 + 花藤）；小屋左两列挂画升级后都还合法。阿宅 / 火箭老板 Lv2/Lv3 没到，继续用纯色房间；77 全身图 / 头像到了再做 12b2。4888.jpg 是游戏截图，只当参考，不进仓库。截图 `qa/12b1_iPhone_15_rooms.webp`。测试：旧的「升级房没底图」合成用例改成先摘掉真底图禁区再跑，新增真底图禁区用例（升级原位、自动挂满不压墙饰、旧档挂窗上的画读档挪开）。
+
+12b2：家宅升级底图第二批 + 77 新形象 + 测试房间。阿宅 / 火箭老板 Lv2（公寓 8×5）、Lv3（豪宅 10×6）四张底图（`home-transfer-20261006` 3fb4756，SHA256 全部核对一致），做法同 12b1：踢脚线底边切开墙 / 地板，分别缩放成公寓 1600×400 + 1600×1000、豪宅 2000×400 + 2000×1200，存 `art/home_<ceo>_<lv>.webp` 并登记 HOME_ART。横竖比例偏差（横向缩放 ÷ 竖向缩放 − 1）：阿宅公寓墙 −12%（原图墙偏高，竖向多拉）/ 地板 +5%，阿宅豪宅墙 +25%（原图墙最矮，书架壁龛看着偏宽）/ 地板 −8%，火箭公寓墙 +3% / 地板 −1%，火箭豪宅墙 +13% / 地板 −4%。墙面禁区按实图标：阿宅公寓第 4–8 列（竖条壁柱 + 金边柜门 + 灯光书架），阿宅豪宅第 3–10 列（灯带 + 大理石波浪板 + 竖条格栅 + 战机 / 手办壁龛，左边奶白软包板只占第 1–2 列），火箭公寓第 4–8 列（铆钉立柱 + 铜壁灯 + 大舷窗），火箭豪宅第 4–10 列（穹顶弧梁 + 星空大窗）；四家小屋左两列挂画升级后都还合法。77 全身 / 头像换成熊大漫画新版（`ceo77_fullbody_comic_v1` → `art/ceo_c77.webp` 480²，`ceo77_portrait_comic_v1` → `art/face_c77.webp` 192²，透明底铺同色米白），ART_V 11 → 12b2；77 在别家店的任职图 / 跨行漫画还是旧图。
+
+测试房间：`?test=homes`（公寓）或 `?test=homes&lv=3`（豪宅）。四家都开、四位 CEO 都在，每家摆好 7 件地板家具 + 1 幅挂画，仓库再放 4 幅画 + 4 件小家具，金币 1 万亿，进来直接是家宅页，底部有黄色角标「测试房间 · 不存档，刷新重置」。整局只在内存里：不读、不写任何 localStorage（真存档、备份、多标签锁都不碰），开着的真游戏标签也不会被挤下线；不带参数（或参数不对）就是正常游戏。版本自检重开时保留 `test=homes`。截图 `qa/12b2_iPhone_15_rooms.webp`（用测试房间拍的）。
